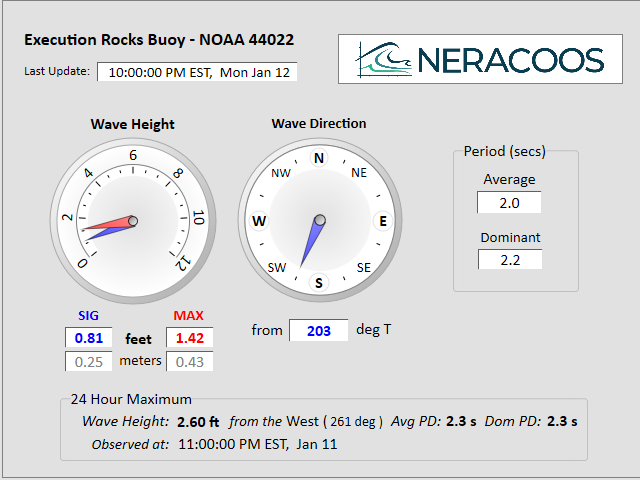
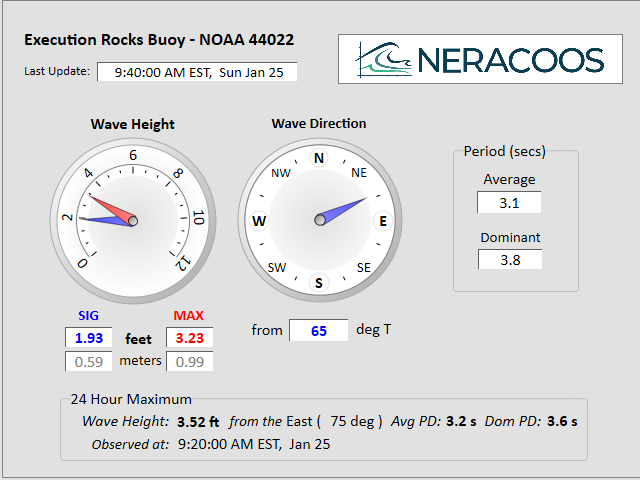
completed tests and machine specific optimizations. RaspPi works fine.

diff --git a/CaptureAndStore_WxExcRocks.py b/CaptureAndStore_WxExcRocks.py
@@ -9,7 +9,7 @@ import requests
 
 # OCR tools
 import pytesseract
-# Bridge to cli tool. Need to install tesseract CLI engine in the OS
+# Bridge to cli tool. Need to install tesseract-ocr CLI engine in the OS
 
 # Managing images
 from PIL import Image
@@ -21,17 +21,19 @@ import pandas as pd
 import logging
 import os
 
+import argparse
+
 ### Global Structures and Configurations
 # Timezone configuration OLD SCHOOL
-UTC = pytz.utc
+# UTC = pytz.utc
 # EST = pytz.timezone('US/Eastern')
 # Timezone configuration NEW SCHOOL
-# UTC = ZoneInfo.utc
+UTC = ZoneInfo('UTC')
 EST = ZoneInfo('US/Eastern')
 
 """
-    Quick review: NERACOOS weather buoys are managed by the Univ. of Ct. Bridgeport. They have invested, 
-    heavily in a package (software and hardware) that provides real-time data on wind, waves and water 
+    Quick review: NERACOOS weather buoys are managed by the Univ. of Ct. Bridgeport. They have invested,
+    heavily in a package (software and hardware) that provides real-time data on wind, waves and water
     quality for LI Sound. We are most interested in two buoys which are close by to our harbor:
     Execution Rocks [exrx] and Western LI Sound [wlis]. The devices with their software can deliver csv lists
     of their systems but it would appear that the servers that present the data are not set up for this or
@@ -75,7 +77,7 @@ windSources = {
 }
 
 # image URIs for Wave information
-westernLIWaves_url = "https://clydebank.dms.uconn.edu/wlis_wavs.png" 
+westernLIWaves_url = "https://clydebank.dms.uconn.edu/wlis_wavs.png"
 execrocksWaves_url = "https://clydebank.dms.uconn.edu/exrx_wavs.png"
 
 # dictionary of locations within the image of the data we want.
@@ -92,7 +94,7 @@ waveSources = {
     'WaveDirM24 [°]':     {'bounds':(327, 412, 354, 433), 'value': NaN }, #deg True in last 24hrs
     'WavePerAvgM24 [s]':  {'bounds':(440, 412, 468, 430), 'value': NaN }, #avg period in last 24hrs
     'WaveperDomM24 [s]':  {'bounds':(540, 412, 570, 430), 'value': NaN }, #dominant period in last 24hrs
-    'WaveTimeM24':        {'bounds':(169, 433, 363, 455), 'value': NaN }, #dateString of 24Hr Max  
+    'WaveTimeM24':        {'bounds':(169, 433, 363, 455), 'value': NaN }, #dateString of 24Hr Max
 }
 ########################################### USER CONFIGURABLES #######################################
 
@@ -146,7 +148,7 @@ class BuoyDataCapture:
         # 2. Change the stored filename
         if filename != None:
             self.filename = filename
-        
+
         # Check if the request was successful (HTTP 200)
         if response.status_code == 200:
             # 3. Store to disk for a second step, the image is not large, maybe keep in memory?
@@ -155,7 +157,7 @@ class BuoyDataCapture:
             # return filename  # Return path to the stored file
         else:
             raise Exception(f"Failed to retrieve image. Status code: {response.status_code}")
-    
+
     def _preprocess_for_ocr(self, croppedImage):
         """
         Improve the image for the OCR process. Mostly used in internally.
@@ -164,17 +166,23 @@ class BuoyDataCapture:
         """
         # 1. Convert to Grayscale ('L' mode in Pillow)
         gray_crop = croppedImage.convert('L')
-        
-        # 2. Resize: Tesseract needs clear, large characters. 
+
+        # 2. Resize: Tesseract needs clear, large characters.
         # Upscaling by 2x or 3x often fixes issues with small regions.
         w, h = gray_crop.size
-        upscaledImage = gray_crop.resize((w * 2, h * 2), Image.Resampling.LANCZOS)
-        
+
+        if os.uname().nodename == "raspberrypi":
+            # For RaspPi
+            upscaledImage = gray_crop.resize((w * 2, h * 2), Image.LANCZOS)
+        else:
+            # For high end
+            upscaledImage = gray_crop.resize((w * 2, h * 2), Image.Resampling.LANCZOS)
+
         # 3. Optional: Invert if text is light on a dark background
         # Tesseract expects dark text on a light background.
-        # upscaled = ImageOps.invert(upscaled) 
+        # upscaled = ImageOps.invert(upscaled)
         return upscaledImage
-    
+
     def ocr_numerals_only(self, image_crop, ocrCharacterLimit):
         """
         Processes a cropped image to extract only numbers and decimal points.
@@ -185,7 +193,7 @@ class BuoyDataCapture:
         # Configuration breakdown:
         # --psm 6: Assume a single uniform block of text (good for small crops)
         # tessedit_char_whitelist: Restrict characters to digits and dot
-        
+
         # Perform OCR
         # text = pytesseract.image_to_string(image_crop, config=self.ocrLimits['numberLike'])
         # # Clean up whitespace/newlines
@@ -198,11 +206,11 @@ class BuoyDataCapture:
         :param image_crops: List of PIL Image objects (from previous step).
         :return: List of extracted numeric strings.
         """
-        print("\tDBG: DATES ONLY")
+        logging.info("\tDBG: DATES ONLY")
         # Configuration breakdown:
         # --psm 6: Assume a single uniform block of text (good for small crops)
         # tessedit_char_whitelist: Restrict characters to digits and dot
-        
+
         # Perform OCR
         # text = pytesseract.image_to_string(image_crop, config=self.ocrLimits['dateLike'])
         # Clean up whitespace/newlines
@@ -219,34 +227,40 @@ class BuoyDataCapture:
         # Perform OCR
         text = pytesseract.image_to_string(image_crop, config=ocrCharacterLimit)
         # Clean up whitespace/newlines
-        return text.strip()        
-        
+        return text.strip()
+
     def extract_regions(self):
         """
-        Extracts multiple rectangular regions from a PNG.  Again, we store the result 
+        Extracts multiple rectangular regions from a PNG.  Again, we store the result
         on disk but maybe we can get away with keeping in memory?
         :param image_path: Path to the retrieved PNG file.
         :param regions: List of 4-tuples (left, upper, right, lower) coordinates.
         :return: List of cropped Image objects.
         """
         # extracted_images = []
-        
+
         with Image.open(self.filename) as img:
             # Standardize for OCR: convert to RGB and remove transparency
-            img = img.convert("RGB") 
+            img = img.convert("RGB")
 
             for key, item in self.dataParts.items():
-                print(f"\tWRK: {key}: {item['bounds']} {key.find("Time")}")
+                logging.info(f"\tWRK: {key}: {item['bounds']} {key.find('Time')}")
                 croppedImage = self._preprocess_for_ocr(img.crop(item['bounds']))
 
                 if key.find("Time")>-1:
                     # Decoding the date can be tricky. Though the buoys are connected via cell their clocks can be wildly off.
                     data = self._ocr_values(croppedImage, self.ocrLimits['datelike']) + f", {datetime.now().year}"
-                    print(f"\t\tDBG: time string [raw]: {repr(data)}")
+                    logging.info(f"\t\tDBG: time string [raw]: {repr(data)}")
                     try:
                         data = datetime.strptime(data, "%I:%M:%S %p %Z, %a %b %d, %Y")  # even though it captures the EST it is naive
                     except:
-                        data = datetime.strptime(data, "%I:%M:%S %p %Z, %b %d, %Y")  # even though it captures the EST it is naive
+                        try:
+                            data = datetime.strptime(data, "%I:%M:%S %p %Z, %a%b %d, %Y")  # even though it captures the EST it is naive
+                        except:
+                            try:
+                                data = datetime.strptime(data, "%I:%M:%S %p %Z, %b %d, %Y")  # even though it captures the EST it is naive
+                            except:
+                                logging.CRITICAL(f"Can't decode date string '{repr(data)}'")
 
                     tz = pytz.timezone('US/Eastern')
                     data = data.replace(tzinfo=tz)
@@ -254,10 +268,10 @@ class BuoyDataCapture:
                     #ATTN: When testing this on Jan 02, 2026 the buoy's clock was 2hrs fast. This may be corrected later.
                     if datetime.now(pytz.timezone('US/Eastern')) < data:
                         # The buoy reports the wrong time every now and again probably 2 hours off. 1/7/26 Seems to have been fixed.
-                        print("\t\tDBG: Fixed time")
+                        logging.info("\t\tDBG: Fixed time")
                         data = data - timedelta(hours=2)
                     else:
-                        print("\t\tDBG: Time is OK")
+                        logging.info("\t\tDBG: Time is OK")
                         data = data
                 else:
                     try:
@@ -272,10 +286,10 @@ class BuoyDataCapture:
         for k in self.dataParts:
             dataDict[k] = self[k]
         return dataDict
-    
+
     def __getitem__(self, key):
         return self.get(key)
-    
+
     def get(self, key):
         return self.dataParts[key]['value']
 
@@ -284,7 +298,7 @@ class DataBuffer:
     This class manages a ring buffer of data stored in a CSV file. The buffer retains data for the last 3 days (72 hours) only.
     It uses pandas DataFrame for efficient data handling and storage. As with the OCR class above, this class is agnostic toward
     the type of data being stored. It could be data from wind or wave panels. The user specifies the column labels and the class manages
-    the rest. 
+    the rest.
     :param labels: List of strings for the column names. (usually just: `list[waveSources.keys()]` or `list[windSources.keys()]`)
     :param filepath: Path to the CSV file.
     """
@@ -301,7 +315,7 @@ class DataBuffer:
             self.df = pd.read_csv(self.filepath, index_col=0, parse_dates=True)
             # Ensure index is timezone-aware (UTC) to match new records
             if self.df.index.tz is None:
-                self.df.index = self.df.index.tz_localize(timezone.utc)
+                self.df.index = self.df.index.tz_localize(UTC)
             # Ensure existing columns match the provided labels
             self.df.columns = self.columns
         else:
@@ -309,7 +323,7 @@ class DataBuffer:
             #    - 'data=[]' ensures it is empty
             #    - 'tz="US/Eastern"' sets the timezone (you can use 'UTC', 'Asia/Tokyo', etc.)
             tz_aware_index = pd.DatetimeIndex([], dtype='datetime64[ns, US/Eastern]', name='Timestamp')
-            df = pd.DataFrame(columns=self.columns, index=tz_aware_index)
+            self.df = pd.DataFrame(columns=self.columns, index=tz_aware_index)
 
     def add_record(self, data_dict):
         """
@@ -317,11 +331,11 @@ class DataBuffer:
         :param data_dict: Dictionary where keys match self.columns.
         """
         # 1. Create a timezone-aware timestamp for the current moment
-        now = datetime.now(timezone.utc)
-        
+        now = datetime.now(UTC)
+
         # 2. Single-step append: loc automatically maps dictionary keys to columns
         self.df.loc[now] = data_dict
-        
+
         # 3. Maintain the 3-day ring buffer and save
         self._truncate_and_save()
 
@@ -336,38 +350,65 @@ class DataBuffer:
         """Access the dataframe for graphing or analysis."""
         return self.df
 
+def captureWindData():
+    """
+    Docstring for captureWindData
+    Capture information from the wind buoy graphical image
+    and store it into a database.
+    """
+    logging.info("-----------------------------------------")
+    logging.info("--- Execution Rocks Wind Data Read:")
+
+    wind = BuoyDataCapture(execrocksWind_url, windSources)
+    wind.fetch_image()
+    wind.extract_regions()
+
+    logging.info(f"time: {wind['Timestamp'].strftime('%Y-%m-%d %I:%M:%S %P %Z')} @{wind['Timestamp']}  ")
+
+    if datetime.now(pytz.timezone('US/Eastern')) < wind['Timestamp']:
+        logging.warning("Why is the time wrong?")
+
+    logging.info(wind.getDict())
+    ## Now we want to store this data in a CSV file or a database.
+    #
+    wind_buffer = DataBuffer(list(windSources.keys()), filepath="execrocks_wind_data.csv")
+    wind_buffer.add_record(wind.getDict())
+
+def captureWaveData():
+    """
+    Docstring for captureWaveData
+    Capture information from the wind buoy graphical image
+    and store it into a database.
+    """
+    logging.info("----------------------------------------")
+    logging.info("--- Execution Rocks Wave Data Read:")
+    wave = BuoyDataCapture(execrocksWaves_url, waveSources)
+    wave.fetch_image()
+    wave.extract_regions()
+
+    logging.info(f"time: {wave['Timestamp'].strftime('%Y-%m-%d %I:%M:%S %P')} @{wave['Timestamp']}  ")
+
+    logging.info(wave.getDict())
+    ## Now we want to store this data in a CSV file or a database.
+    #
+    wave_buffer = DataBuffer(list(waveSources.keys()), filepath="execrocks_waves_data.csv")
+    wave_buffer.add_record(wave.getDict())
 
 def main():
-    logging.basicConfig(level=logging.INFO, format='%(asctime)s - %(levelname)s - %(message)s')
-    
-    # print(windSources.keys())
-    print("-----------------------------------------")
+    parser = argparse.ArgumentParser(
+                    # prog=__name__,
+                    description='Fetches the wind and wave data from the LIRACOOS Buoys',
+                    epilog='')
+    parser.add_argument("-z", "--wind", help="Gather wind information", action='store_true')
+    parser.add_argument("-w", "--wave", help="Gather wave information", action='store_true')
+    args = parser.parse_args()
+    if args.wind:
+        captureWindData()
 
-    obj = BuoyDataCapture(execrocksWind_url, windSources)
-    obj.fetch_image()
-    obj.extract_regions()
-
-    print(f"time: {obj['Timestamp'].strftime('%Y-%m-%d %I:%M:%S %P %Z')} @{obj['Timestamp']}  ")
-
-    if datetime.now(pytz.timezone('US/Eastern')) < obj['Timestamp']:
-        print("Why is the time wrong?")
-
-    print(obj.getDict())
-
-    print("----------------------------------------")
-    print("--- Execution Rocks Wave Data Read:")
-    obj = BuoyDataCapture(execrocksWaves_url, waveSources)
-    obj.fetch_image()
-    obj.extract_regions()
-
-    print(f"time: {obj['Timestamp'].strftime('%Y-%m-%d %I:%M:%S %P')} @{obj['Timestamp']}  ")
-
-    print(obj.getDict())
-
-    ## Now we want to store this data in a CSV file or a database.
-    # TBD
+    if args.wave:
+        captureWaveData()
 
 
 if __name__ == "__main__":
+    logging.basicConfig(level=logging.CRITICAL, format='%(asctime)s - %(levelname)s - %(message)s')
     main()
-

diff --git a/README.md b/README.md
@@ -75,3 +75,28 @@ Deal with the initial case.  Set up the `DF` and write it out.
 - Read datafiles
 
 Gather data, populate the `DF` and write it out.
+
+### Phase 3
+
+- setup RaspPi and update libraries
+- test execution on the pi (fix any machine dependancies)
+- build cron job parameters.  
+  > To fire an event at regular intervals it can be done with a /10 
+  > (for minute intervals in an hour i.e. 10,20,30...). To start and a
+  > point other than :00 then use this 7-59/15 which would trigger at 
+  > 7 min past the hour > at :07, :22, :37, :52
+
+  > Some systems don't support the /delta so you can specify the time **RASP-Pi DOES**
+  > in a comma seperated list: 07,22,37,52 in the minute slot.
+
+### Phase 4
+  - Replace the wind graphic with one generated from the captured data. 
+    > Consider reducing the size of the tide graph (decrease it's overall height by 25%)
+
+    > Create a new wind/wave chart and maybe a cool graphic with a compass rose indicating
+    > the magnitude of the wind direction and strength superimposed on the same for the wave
+    > direction and strength.
+
+    > Consider marking the source in the data recording and include central LIS as well as
+    > as backup capture western LIS  [EXC, WLI, CLI] and switch between based on failure tree:
+    > default: EXC : if fail: WLI : if fail: CLI : giveup. or return to Sands Point (different graphic)
